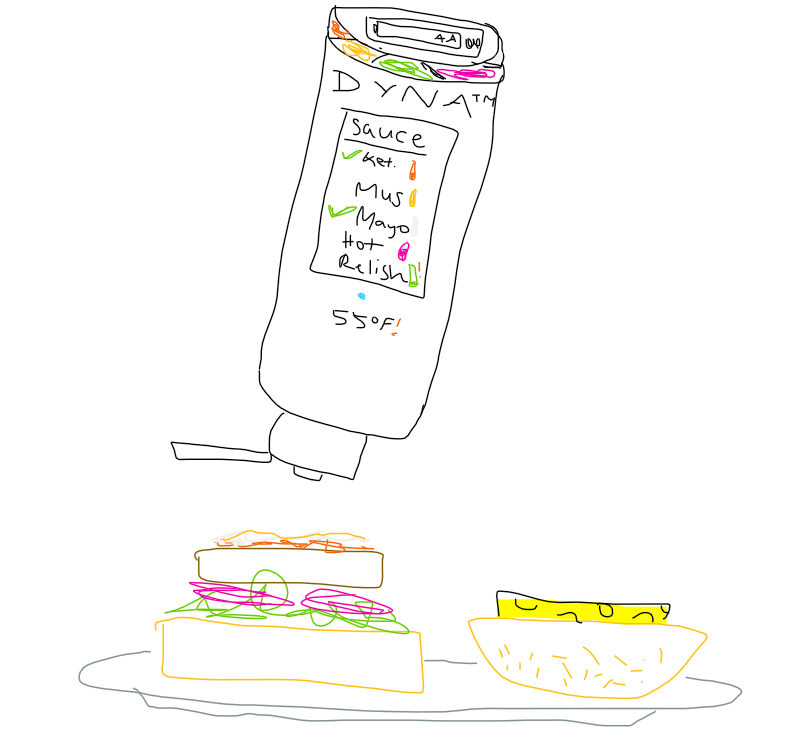
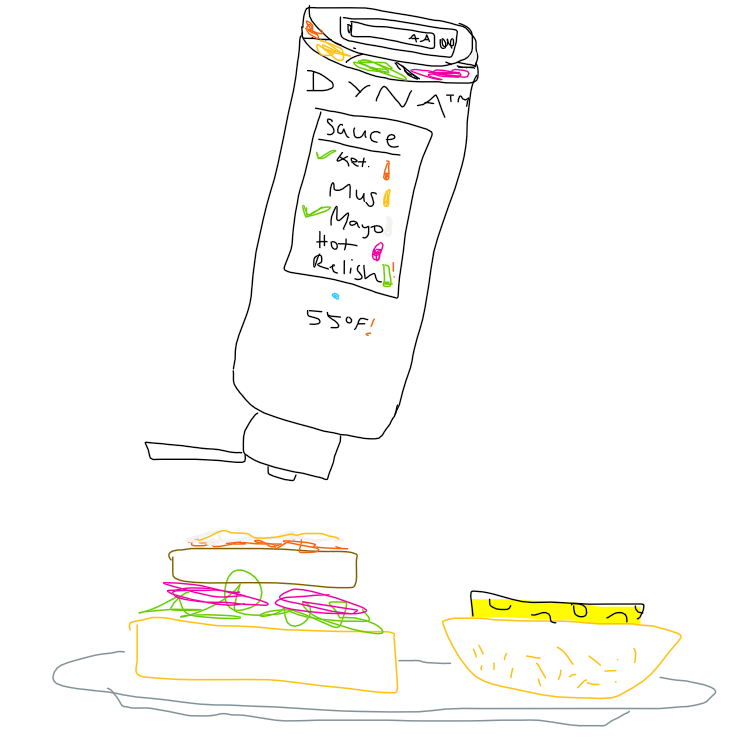
added prototype pics

diff --git a/index.html b/index.html
@@ -134,9 +134,6 @@
                 </div>
                 <!-- Prototype Section Content-->
                 <div class="row justify-content-center">
-                    <div class="col-lg-8 ms-auto"><p class="lead">Our Youtube video will be embedded on this page.</p></div>
-                    <!-- Portfolio Modal - Image-->
-                    <img class="img-fluid rounded mb-5" width="200" src="assets/img/portfolio/DynaRough.png" alt="...">
                 </div>
                 <!-- Prototype Section Button-->
                 <div class="text-center mt-4">
@@ -144,6 +141,41 @@
                         <i class="fas fa-video me-2"></i>
                         Watch on Youtube
                     </a>
+                </div>
+                <br />
+                <div class="row justify-content-center">
+                    <!-- Prototype Item -->
+                    <div class="col-md-6 col-lg-4 mb-5">
+                        <img class="img-fluid rounded mb5" src="assets/img/portfolio/DynaRough.png" alt="..." />
+                    </div>
+                    <!-- Prototype Item -->
+                    <div class="col-md-6 col-lg-4 mb-5">
+                        <img class="img-fluid rounded mb5" src="assets/img/DYNAsauceLarge.png" alt="..." />
+                    </div>
+                    <!-- Prototype Item -->
+                    <div class="col-md-6 col-lg-4 mb-5">
+                        <img class="img-fluid rounded mb5" src="assets/img/DYNAsauceTop.png" alt="..." style="width: 100% !important" />
+                    </div>
+                    <!-- Prototype Item -->
+                    <div class="col-md-6 col-lg-4 mb-5 mb-lg-0">
+                        <img class="img-fluid rounded mb5" src="assets/img/DYNAsauceCardboard.jpg" alt="..." />
+                    </div>
+                    <!-- Prototype Item -->
+                    <div class="col-md-6 col-lg-4 mb-5 mb-md-0">
+                        <img class="img-fluid rounded mb5" src="assets/img/DYNAsauceCardboard2.jpg" alt="..." />
+                    </div>
+                    <!-- Prototype Item -->
+                    <div class="col-md-6 col-lg-4">
+                        <img class="img-fluid rounded mb5" src="assets/img/DYNAsauceCardboard3.jpg" alt="..." />
+                    </div>
+                    <!-- Prototype Item -->
+                    <div class="col-md-6 col-lg-4" style="margin-top: 48px !important;" >
+                        <img class="img-fluid rounded mb5" src="assets/img/DYNAsauceActual.jpg" alt="..." />
+                    </div>
+                    <!-- Prototype Item -->
+                    <div class="col-md-6 col-lg-4" style="margin-top: 48px !important;" >
+                        <img class="img-fluid rounded mb5" src="assets/img/DYNAsauceActual2.jpg" alt="..." />
+                    </div>
                 </div>
             </div>
         </section>
